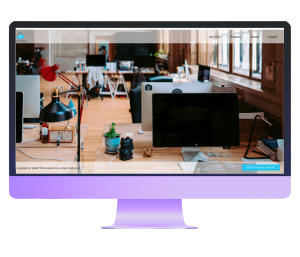
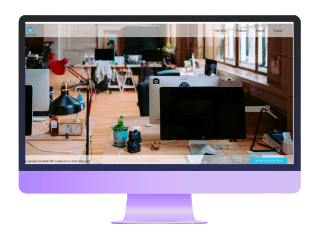
initial commit

diff --git a/index.html b/index.html
@@ -11,7 +11,7 @@
 </head>
 <body class="text-white">
     <!-- navbar start -->
-        <nav class="navbar navbar-expand-md navbar-dark fixed-top img-fluid mt-3 mb-3">
+        <nav class="navbar navbar-expand-md navbar-dark navbar-static-top fixed-top">
             <div class="container">
                     <a class="navbar-brand" href="#">Js.</a>
                     <button class="navbar-toggler" type="button" data-bs-toggle="collapse" data-bs-target="#navbarSupportedContent" aria-controls="navbarSupportedContent" aria-expanded="false" aria-label="Toggle navigation">
@@ -40,52 +40,8 @@
         </nav>
     <!-- navbar end  -->
     
-    <!-- 
-        <section class="home">
-            <div class="container">
-                <div class="row align-items-center" style="height: 87vh;">
-                    <div class="col-lg-5 col-12">
-                    <h2>Hi There!</h2>
-                    <h2>I AM <span>JAWAD SHAIKH</span></h2>
-                    <h2>FULL STACT WEB DEVELOPER</h2>
-                </div>
-                <div class="col-lg-5 offset-lg-2 col-12">
-                    <img src="images/home-main.541f8179af8209ce03ccf2178fe62dbf.svg" alt="home" class="img-fluid home-img">
-                </div>
-            </div>
-            <div class="home-about">
-                <div class="row">
-                    <div class="col-lg-8">
-                        <h1 class="text-center">LET ME <span>INTRODUCE</span> YOUR SELF</h1>
-                        <div class="mt-5">
-                            <p>I fell in love with programming and I have at least learnt something, I think… 🤷♂</p> 
-                            <p>I am fluent in classics like <span> Jquery, Javascript and Python.</span></p> 
-                            <p>My field of Interest's are building new <span> Web Technologies and Products</span></p> 
-                        </div>
-                    </div>
-                    <div class="col-lg-3 offset-lg-1">
-                        <img src="images/avatar.5852f40fbb38aa284829fa3fb7722225.svg" alt="avtar" class="img-fluid mt-4 mt-4 mb-4">
-                    </div>
-                </div>
-                <div class="row">
-                    <div class="col-lg-3 text-center w-100 mt-5">
-                        <h2>FIND ME ON</h2>
-                        <p>Feel free to <span>contact</span> with me</p>
-                        <div class="icon mb-3">
-                            <i class="fa-brands fa-github"></i>
-                            <i class="fa-brands fa-twitter"></i>
-                            <i class="fa-brands fa-linkedin-in"></i>
-                            <i class="fa-brands fa-instagram"></i>
-                        </div>
-                    </div>
-                </div>
-            </div>
-        </div>
-    </section> -->
-    
     <!-- home start  -->
-    
-    <section class="home hidden" id="home">
+    <section class="home hidden">
         <div class="container">
             <div class="row align-items-center" style="height: 87vh;">
                 <div class="col-lg-5 col-12">
@@ -129,7 +85,7 @@
         <!-- home end  -->
         
         <!-- about start -->
-        <section class="about hidden" id="about">
+        <section class="about hidden">
             <div class="container">
                 <div class="row">
                     <div class="col-lg-7">
@@ -157,64 +113,64 @@
             </div>
             <div class="row justify-content-center"> 
                 <h2 class="text-center mt-5 mb-3">Professional <span>Skillset</span></h2>
-                <div class="col-lg-2 skill-item text-center">
+                <div class="col-lg-2 col-5 skill-item text-center">
                     <i class="fa-brands fa-html5"></i>
                 </div>
-                <div class="col-lg-2 skill-item text-center">
+                <div class="col-lg-2 col-5 skill-item text-center">
                     <i class="fa-brands fa-css3"></i>
                 </div>
-                <div class="col-lg-2 skill-item text-center">
+                <div class="col-lg-2 col-5 skill-item text-center">
                     <i class="fa-brands fa-bootstrap"></i>
                 </div>
-                <div class="col-lg-2 skill-item text-center">
+                <div class="col-lg-2 col-5 skill-item text-center">
                     <svg stroke="currentColor" fill="currentColor" stroke-width="0" version="1.1" viewBox="0 0 32 32" height="1em" width="1em" xmlns="http://www.w3.org/2000/svg"><path d="M9.633 7.968h3.751v10.514c0 4.738-2.271 6.392-5.899 6.392-0.888 0-2.024-0.148-2.764-0.395l0.42-3.036c0.518 0.173 1.185 0.296 1.925 0.296 1.58 0 2.567-0.716 2.567-3.282v-10.489zM16.641 20.753c0.987 0.518 2.567 1.037 4.171 1.037 1.728 0 2.641-0.716 2.641-1.826 0-1.012-0.79-1.629-2.789-2.32-2.764-0.987-4.59-2.517-4.59-4.961 0-2.838 2.394-4.985 6.293-4.985 1.9 0 3.258 0.37 4.245 0.839l-0.839 3.011c-0.642-0.321-1.851-0.79-3.455-0.79-1.629 0-2.419 0.765-2.419 1.604 0 1.061 0.913 1.53 3.085 2.369 2.937 1.086 4.294 2.616 4.294 4.985 0 2.789-2.122 5.158-6.688 5.158-1.9 0-3.776-0.518-4.714-1.037l0.765-3.085z"></path></svg>
                 </div>    
-                <div class="col-lg-2 skill-item text-center">
+                <div class="col-lg-2 col-5 skill-item text-center">
                     <h2 style="margin-top :28px; font-weight: 900">Jquery</h2>
                 </div>
-                <div class="col-lg-2 skill-item text-center">
+                <div class="col-lg-2 col-5 skill-item text-center">
                     <i class="fa-brands fa-python"></i>
                 </div>
-                <div class="col-lg-2 skill-item text-center">
-                    <h2 style="margin-top :28px; font-weight: 900;">django</h2>
+                <div class="col-lg-2 col-5 skill-item text-center">
+                    <h2 style="margin-top :28px; font-weight: 900;">Django</h2>
                 </div>
-                <div class="col-lg-2 skill-item text-center">
-                    <i class="fa-sharp fa-solid fa-republican"></i>
+                <div class="col-lg-2 col-5 skill-item text-center">
+                     <img src="images/icons8-postgresql-96.png" alt="postgresql" class="img-fluid">
                 </div>
-                <div class="col-lg-2 skill-item text-center">
-                    <h2 style="margin-top :28px; font-weight: 900;"><i class="fa-solid fa-gear mx-1"></i>API</h2>
+                <div class="col-lg-2 col-5 skill-item text-center">
+                    <img src="images/icons8-rest-api-96.png" alt="rest-api" class="img-fluid mt-1 mb-1">
                 </div>
             </div> 
-            <div class="row">
+            <div class="row justify-content-center">
                 <h2 class="text-center mt-5 mb-3"><span>Tools </span>I use</h2>
-                <div class="col-lg-2 skill-item text-center">
+                <div class="col-lg-2 col-5 skill-item text-center">
                     <i class="fa-brands fa-git-alt"></i>
                 </div>
-                <div class="col-lg-2 skill-item text-center">
+                <div class="col-lg-2 col-5 skill-item text-center">
                     <i class="fa-brands fa-github"></i>
                 </div>
-                <div class="col-lg-2 skill-item text-center">
+                <div class="col-lg-2 col-5 skill-item text-center">
                     <svg stroke="currentColor" fill="currentColor" stroke-width="0" role="img" viewBox="0 0 24 24" height="1em" width="1em" xmlns="http://www.w3.org/2000/svg"><title></title><path d="M23.15 2.587L18.21.21a1.494 1.494 0 0 0-1.705.29l-9.46 8.63-4.12-3.128a.999.999 0 0 0-1.276.057L.327 7.261A1 1 0 0 0 .326 8.74L3.899 12 .326 15.26a1 1 0 0 0 .001 1.479L1.65 17.94a.999.999 0 0 0 1.276.057l4.12-3.128 9.46 8.63a1.492 1.492 0 0 0 1.704.29l4.942-2.377A1.5 1.5 0 0 0 24 20.06V3.939a1.5 1.5 0 0 0-.85-1.352zm-5.146 14.861L10.826 12l7.178-5.448v10.896z"></path></svg>
                 </div>
-                <div class="col-lg-2 skill-item text-center">
+                <div class="col-lg-2 col-5 skill-item text-center">
                     <i class="fa-brands fa-linux"></i>
                 </div>
-                <div class="col-lg-2 skill-item text-center">
+                <div class="col-lg-2 col-5 skill-item text-center">
                     <h2 style="margin-top :28px; font-weight: 900;">Canva</h2>
                 </div>
             </div>
         </div>
-        <div class="row mx-5 text-center">
+        <div class="row mx-3 text-center">
             <h2 style="margin-top :28px; font-weight: 900;">Days I <span>Code</span></h2>
-            <div class="col-lg-12 text-center mt-4 mt-4 mb-4 mb-4 mt-4 mb-4">
-                <img src="images/git.png" alt="contribution">
+            <div class="col-lg-12 text-center mt-4 mb-4">
+                <img src="images/git.png" alt="contribution" class="img-fluid">
             </div>
         </div>
       </section>
       <!-- about end  -->
 
       <!-- projects start  -->
-      <section class="projects" id="projects">
+      <section class="projects">
         <div class="container">
             <div class="row mt-5 mb-4 mt-4 mb-4 text-center">
                 <h1>My Recent <span>Works</span></h1>
@@ -222,11 +178,11 @@
                 <div class="col-lg-4 mt-4 mb-4">
                     <div class="card-body" style="width: 23rem;">
                         <div class="project-card-view">
-                            <img src="images/cv.png" class="card-img-top img-fluid mt-3 mb-3" alt="...">
-                        <p>Personal Chat Room or Workspace to share resources and hangout with friends build with react.js, Material-UI, and Firebase. Have features which allows user for realtime messaging, image sharing as well as supports reactions on messages.</p>
+                            <img src="images/stackweb.png" class="card-img-top img-fluid mt-3 mb-3" alt="...">
+                            <p>Stack web a complete Responsive landing page made using HTML, CSS, Bootstrap</p>
                         <div class="project-btn mb-4">
-                           <button type="button" class="btn cv-btn mx-2"><i class="fa-brands fa-github mx-2"></i>GitHub</button>
-                           <button type="button" class="btn cv-btn mx-2"><i class="fa-sharp fa-solid fa-eye mx-2"></i>Demo</button>
+                            <a href="https://github.com/JawadShk/stack-web" target="_blank"><button type="button" class="btn cv-btn mx-2"><i class="fa-brands fa-github mx-2"></i>GitHub</button></a>
+                            <a href="https://jawadshk.github.io/stack-web/" target="_blank"><button type="button" class="btn cv-btn mx-2"><i class="fa-sharp fa-solid fa-eye mx-2"></i>Demo</button></a>
                         </div>
                     </div>
                 </div>
@@ -234,11 +190,11 @@
             <div class="col-lg-4 mt-4 mb-4">
                 <div class="card-body" style="width: 23rem;">
                     <div class="project-card-view">
-                        <img src="images/spice.png" class="card-img-top img-fluid mt-3 mb-3" alt="...">
-                        <p>Personal Chat Room or Workspace to share resources and hangout with friends build with react.js, Material-UI, and Firebase. Have features which allows user for realtime messaging, image sharing as well as supports reactions on messages.</p>
+                        <img src="images/spice.png" class="card-img-top img-fluid mt-4 mb-3" alt="...">
+                        <p>E-commerce landing page, completely Responsive made using HTML, CSS, Bootstrap</p>
                         <div class="project-btn mb-4">
-                            <button type="button" class="btn cv-btn mx-2"><i class="fa-brands fa-github mx-2"></i>GitHub</button>
-                            <button type="button" class="btn cv-btn mx-2"><i class="fa-sharp fa-solid fa-eye mx-2"></i>Demo</button>
+                            <a href="https://github.com/JawadShk/e-commerce" target="_blank"><button type="button" class="btn cv-btn mx-2"><i class="fa-brands fa-github mx-2"></i>GitHub</button></a>
+                            <a href="https://jawadshk.github.io/e-commerce/" target="_blank"><button type="button" class="btn cv-btn mx-2"><i class="fa-sharp fa-solid fa-eye mx-2"></i>Demo</button></a>
                          </div>
                     </div>
                 </div>
@@ -247,10 +203,10 @@
                 <div class="card-body" style="width: 23rem;">
                     <div class="project-card-view">
                         <img src="images/arkstudio.png" class="card-img-top img-fluid mt-3 mb-3" alt="...">
-                        <p>Personal Chat Room or Workspace to share resources and hangout with friends build with react.js, Material-UI, and Firebase. Have features which allows user for realtime messaging, image sharing as well as supports reactions on messages.</p>
+                        <p>Ark studio landing Page made using HTML, CSS, Botstrap</p>
                         <div class="project-btn mb-4">
-                            <button type="button" class="btn cv-btn mx-2"><i class="fa-brands fa-github mx-2"></i>GitHub</button>
-                            <button type="button" class="btn cv-btn mx-2"><i class="fa-sharp fa-solid fa-eye mx-2"></i>Demo</button>
+                            <a href="https://github.com/JawadShk/ark-studio" target="_blank"><button type="button" class="btn cv-btn mx-2"><i class="fa-brands fa-github mx-2"></i>GitHub</button></a>
+                            <a href="https://jawadshk.github.io/ark-studio/" target="_blank"><button type="button" class="btn cv-btn mx-2"><i class="fa-sharp fa-solid fa-eye mx-2"></i>Demo</button></a>
                          </div>
                     </div>
                 </div>
@@ -258,11 +214,11 @@
             <div class="col-lg-4 mt-4 mb-4">
                 <div class="card-body" style="width: 23rem;">
                     <div class="project-card-view">
-                        <img src="images/cv.png" class="card-img-top img-fluid mt-3 mb-3" alt="...">
-                        <p>Personal Chat Room or Workspace to share resources and hangout with friends build with react.js, Material-UI, and Firebase. Have features which allows user for realtime messaging, image sharing as well as supports reactions on messages.</p>
+                        <img src="images/comforty.png" class="card-img-top img-fluid mt-3 mb-3" alt="...">
+                        <p>Comforty an e-commerce landing page made using HTML,CSS,Bootstrap</p>
                         <div class="project-btn mb-4">
-                            <button type="button" class="btn cv-btn mx-2"><i class="fa-brands fa-github mx-2"></i>GitHub</button>
-                            <button type="button" class="btn cv-btn mx-2"><i class="fa-sharp fa-solid fa-eye mx-2"></i>Demo</button>
+                            <a href="https://github.com/JawadShk/Comforty" target="_blank"><button type="button" class="btn cv-btn mx-2"><i class="fa-brands fa-github mx-2"></i>GitHub</button></a>
+                            <a href="https://jawadshk.github.io/Comforty/" target="_blank"><button type="button" class="btn cv-btn mx-2"><i class="fa-sharp fa-solid fa-eye mx-2"></i>Demo</button></a>
                          </div>
                     </div>
                 </div>
@@ -270,11 +226,11 @@
             <div class="col-lg-4 mt-4 mb-4">
                 <div class="card-body" style="width: 23rem;">
                     <div class="project-card-view">
-                        <img src="images/cv.png" class="card-img-top img-fluid mt-3 mb-3" alt="...">
-                        <p>Personal Chat Room or Workspace to share resources and hangout with friends build with react.js, Material-UI, and Firebase. Have features which allows user for realtime messaging, image sharing as well as supports reactions on messages.</p>
+                        <img src="images/stopwatch.png" class="card-img-top img-fluid mt-3 mb-3" alt="...">
+                        <p>A simple stopwatch implemented using HTML, CSS, Bootstrap 5 and JavaScript.</p>
                         <div class="project-btn mb-4">
-                            <button type="button" class="btn cv-btn mx-2"><i class="fa-brands fa-github mx-2"></i>GitHub</button>
-                            <button type="button" class="btn cv-btn mx-2"><i class="fa-sharp fa-solid fa-eye mx-2"></i>Demo</button>
+                            <a href="https://github.com/JawadShk/stopwatch" target="_blank"><button type="button" class="btn cv-btn mx-2"><i class="fa-brands fa-github mx-2"></i>GitHub</button></a>
+                            <a href="https://jawadshk.github.io/stopwatch/" target="_blank"><button type="button" class="btn cv-btn mx-2"><i class="fa-sharp fa-solid fa-eye mx-2"></i>Demo</button></a>
                          </div>
                     </div>
                 </div>
@@ -282,11 +238,11 @@
             <div class="col-lg-4 mt-4 mb-4">
                 <div class="card-body" style="width: 23rem;">
                     <div class="project-card-view">
-                        <img src="images/cv.png" class="card-img-top img-fluid mt-3 mb-3" alt="...">
-                        <p>Personal Chat Room or Workspace to share resources and hangout with friends build with react.js, Material-UI, and Firebase. Have features which allows user for realtime messaging, image sharing as well as supports reactions on messages.</p>
+                        <img src="images/yoga_landing.png" class="card-img-top img-fluid mt-3 mb-3" alt="...">
+                        <p>Yoga landing Page completely Responsive Made Using HTML, CSS, Bootstrap</p>
                         <div class="project-btn mb-4">
-                            <button type="button" class="btn cv-btn mx-2"><i class="fa-brands fa-github mx-2"></i>GitHub</button>
-                            <button type="button" class="btn cv-btn mx-2"><i class="fa-sharp fa-solid fa-eye mx-2"></i>Demo</button>
+                            <a href="https://github.com/JawadShk/yoga-landing-page" target="_blank"><button type="button" class="btn cv-btn mx-2"><i class="fa-brands fa-github mx-2"></i>GitHub</button></a>
+                            <a href="https://jawadshk.github.io/yoga-landing-page/" target="_blank"><button type="button" class="btn cv-btn mx-2"><i class="fa-sharp fa-solid fa-eye mx-2"></i>Demo</button></a>
                          </div>
                     </div>
                 </div>
@@ -297,25 +253,22 @@
 <!-- projects end  -->
 
 <!-- resume start  -->
-<section class="resume" id="resume">
+<section class="resume">
     <div class="container mt-3 mb-3">
         <div class="row">
             <!-- <a role="button" tabindex="0" href="/static/media/Soumyajit_Behera-BIT_MESRA.a1cb5c1907e31e31991a.pdf" target="_blank" class="btn btn-primary" style="max-width: 250px;"><svg stroke="currentColor" fill="currentColor" stroke-width="0" viewBox="0 0 1024 1024" height="1em" width="1em" xmlns="http://www.w3.org/2000/svg"><path d="M505.7 661a8 8 0 0 0 12.6 0l112-141.7c4.1-5.2.4-12.9-6.3-12.9h-74.1V168c0-4.4-3.6-8-8-8h-60c-4.4 0-8 3.6-8 8v338.3H400c-6.7 0-10.4 7.7-6.3 12.9l112 141.8zM878 626h-60c-4.4 0-8 3.6-8 8v154H214V634c0-4.4-3.6-8-8-8h-60c-4.4 0-8 3.6-8 8v198c0 17.7 14.3 32 32 32h684c17.7 0 32-14.3 32-32V634c0-4.4-3.6-8-8-8z"></path></svg>&nbsp;Download CV</a> -->
             <div class="col-lg-12 mt-3 mb-3">
                 <div class=" col-lg-12 text-center mb-4">
                     <a href="">
-                        <button type="button" class="btn cv-btn px-5"><i class="fa-solid fa-download mx-2"></i>Download</button>
-                        </a>
+                        <a href="cv.pdf" target="_blank"><button type="button" class="btn cv-btn px-5"><i class="fa-solid fa-download mx-2"></i>Download</button></a>
+                    </a>
                     </div>
-                    <div class="col-lg-12 text-center holder">
-                        <!-- <img src="images/cv-img.png"alt="cv"class="img-fluid cv-img"> -->
-                        <!-- <canvas id="my_canvas"></canvas> -->
-                        <!-- <button onclick="pdfRender()">Render PDF</button> -->
+                    <div class="col-lg-12 col-12 holder text-center">
                         <img src="images/cv_img.png" alt="cv" class="img-fluid">
                     </div>
                     <div class="col-lg-12 text-center mt-4">
                         <a href="">
-                            <button type="button" class="btn cv-btn px-5"><i class="fa-solid fa-download mx-2"></i>Download</button>
+                            <a href="cv.pdf" target="_blank"><button type="button" class="btn cv-btn px-5"><i class="fa-solid fa-download mx-2"></i>Download</button></a>
                         </a>
                     </div>
                 </div>
@@ -328,13 +281,13 @@
     <section class="footer text-white">
         <div class="container-fluid">
             <div class="row justify-content-evenly">
-                <div class="col-lg-3 mt-3">
+                <div class="col-lg-3 col-12 mt-3 text-center">
                     <p>Design and Developed by Jawad Shaikh</p>
                 </div>
-                <div class="col-lg-2 mt-3">
+                <div class="col-lg-2 col-6 mt-3">
                         <p>Copyright &copy; 2022 JD</p>
                     </div>
-                    <div class="col-lg-2 mt-3 footer-icons">
+                    <div class="col-lg-2 col-6 mt-3 footer-icons">
                         <i class="fa-brands fa-github px-2"></i>
                         <i class="fa-brands fa-twitter px-2"></i>
                         <i class="fa-brands fa-linkedin-in px-2"></i>

diff --git a/css/style.css b/css/style.css
@@ -2,6 +2,10 @@
     --image-gradient: linear-gradient(to bottom left,hsla(0,3%,6%,.678),rgba(12,10,22,.863));
     --imp-text-color: #c770f0;
 }
+*{
+    margin: 0;
+    padding: 0;
+}
 body{
     margin: 0;
     padding: 0;
@@ -78,7 +82,8 @@ span{
     background-image: var(--image-gradient),url(../images/home-bg.dc52d5d40a40b13154b0.jpg);
     background-repeat: no-repeat;
     /* padding-top: 30px; */
-    position: relative;
+    /* position: relative;
+    top: 0; */
 }
 .home-cred{
     background-image: var(--image-gradient),url(../images/home-bg.dc52d5d40a40b13154b0.jpg);
@@ -188,3 +193,6 @@ span{
     border-radius: 10px;
     height: 70%;
 }
+/* .fixed-top{
+  top: 0;  
+} */
